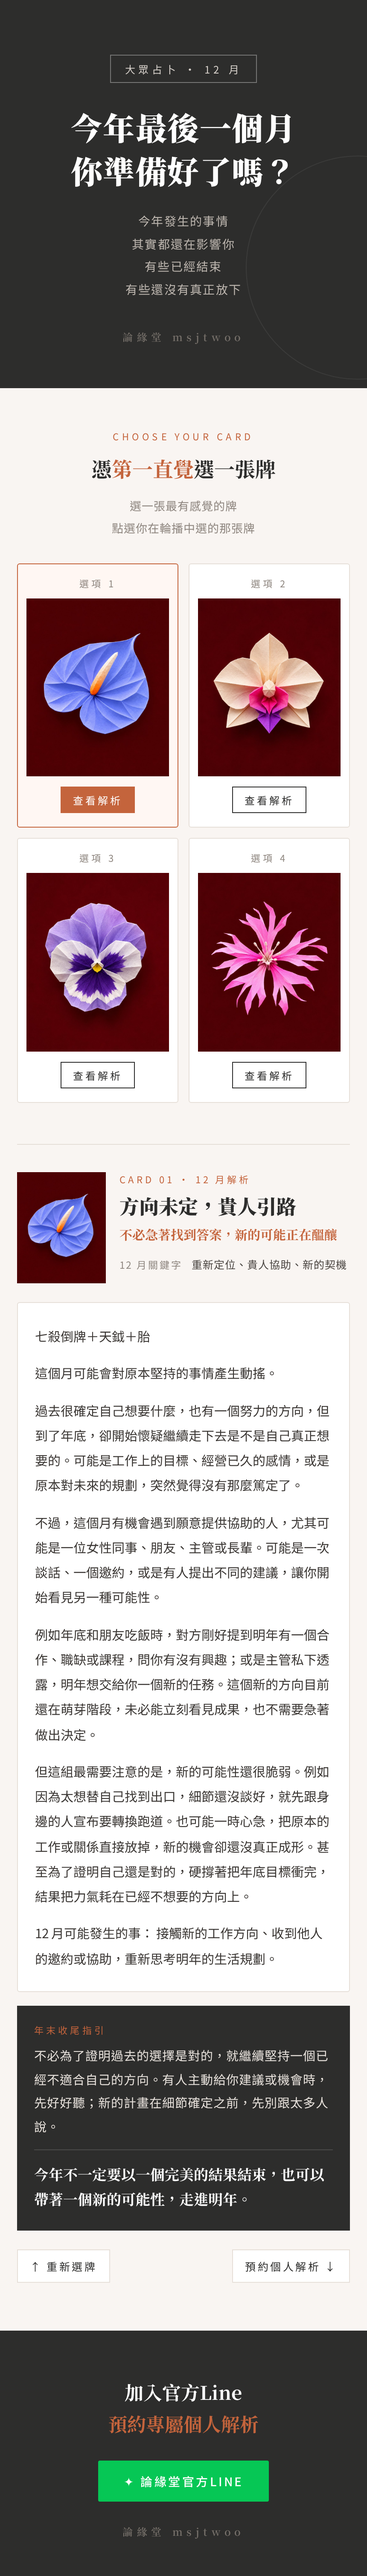
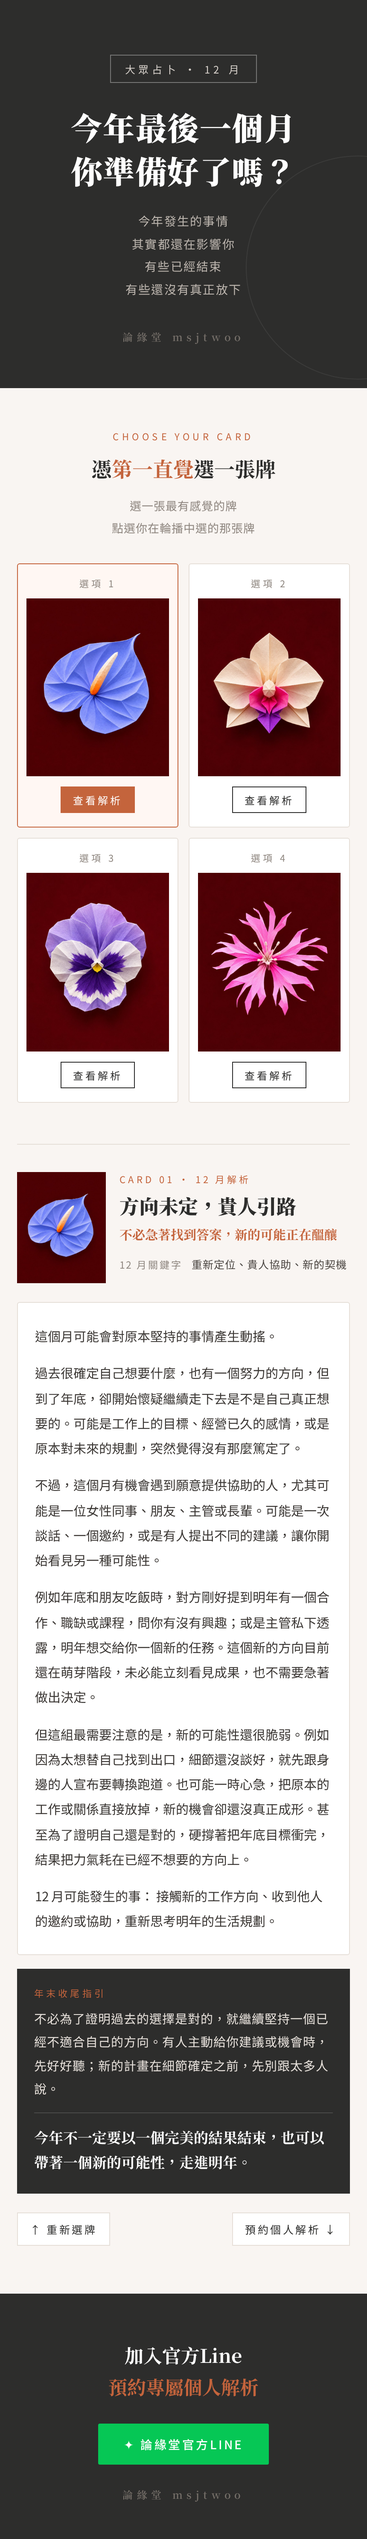
tishen 1127: remove 星曜 combination lines from all four cards
Build script now strips those lines before publish so later weeks will not show them.

diff --git a/tishen/1127/index.html b/tishen/1127/index.html
@@ -94,7 +94,7 @@ body{overflow-x:hidden}
   <div class="brand" id="brand2"></div>
 </footer>
 <div class="fab"><button aria-label="上" onclick="scrollTo({top:0})">↑</button><button aria-label="下" onclick="scrollTo({top:document.body.scrollHeight})">↓</button></div>
-<script id="data" type="application/json">{"slug":"1127","date":"2026-11-27","page_title":"今年最後一個月，你準備好了嗎？・解析頁","series":"12 月","type_label":"大眾占卜","headline":"今年最後一個月你準備好了嗎？","headline_break_after":"今年最後一個月","keyword":"","subtitle":"今年發生的事情\n其實都還在影響你\n有些已經結束\n有些還沒有真正放下","brand":"論緣堂 msjtwoo","question":"選一張最有感覺的牌","pick_hint":"點選你在輪播中選的那張牌","result_short_label":"12 月","line_url":"https://lin.ee/y6Pv4v8","cards":[{"title":"方向未定，貴人引路","subtitle":"不必急著找到答案，新的可能正在醞釀","meta_label":"12 月關鍵字","meta_value":"重新定位、貴人協助、新的契機","body":["七殺倒牌＋天鉞＋胎","這個月可能會對原本堅持的事情產生動搖。","過去很確定自己想要什麼，也有一個努力的方向，但到了年底，卻開始懷疑繼續走下去是不是自己真正想要的。可能是工作上的目標、經營已久的感情，或是原本對未來的規劃，突然覺得沒有那麼篤定了。","不過，這個月有機會遇到願意提供協助的人，尤其可能是一位女性同事、朋友、主管或長輩。可能是一次談話、一個邀約，或是有人提出不同的建議，讓你開始看見另一種可能性。","例如年底和朋友吃飯時，對方剛好提到明年有一個合作、職缺或課程，問你有沒有興趣；或是主管私下透露，明年想交給你一個新的任務。這個新的方向目前還在萌芽階段，未必能立刻看見成果，也不需要急著做出決定。","但這組最需要注意的是，新的可能性還很脆弱。例如因為太想替自己找到出口，細節還沒談好，就先跟身邊的人宣布要轉換跑道。也可能一時心急，把原本的工作或關係直接放掉，新的機會卻還沒真正成形。甚至為了證明自己還是對的，硬撐著把年底目標衝完，結果把力氣耗在已經不想要的方向上。","12 月可能發生的事： 接觸新的工作方向、收到他人的邀約或協助，重新思考明年的生活規劃。"],"summary_label":"年末收尾指引","summary":"不必為了證明過去的選擇是對的，就繼續堅持一個已經不適合自己的方向。有人主動給你建議或機會時，先好好聽；新的計畫在細節確定之前，先別跟太多人說。","summary_strong":"今年不一定要以一個完美的結果結束，也可以帶著一個新的可能性，走進明年。","img":"img/card1.jpg"},{"title":"放下執念，止住消耗","subtitle":"不再勉強掌控，反而有機會迎來好轉","meta_label":"12 月關鍵字","meta_value":"放下控制、重新衡量、止跌回穩","body":["武曲倒牌＋化權倒牌＋衰倒牌","這個月可能會發現，有些事情已經不是努力就能夠掌控的。","原本習慣用理性、效率或實際成果來衡量一件事，但最近可能更容易受到情緒、人情或個人感受的影響，做出與過去不同的選擇。工作上可能不再那麼堅持自己的做法；金錢上可能因為人情而有所妥協；感情上也可能逐漸放下想要掌握關係走向的念頭。","這種失去掌控的感覺，不見得是一件壞事。有些持續消耗你的事情，反而可能因為不再強求，而逐漸停止惡化。原本停滯的工作、低迷的心情，或是一段讓人疲憊的關係，都有機會慢慢回到比較平穩的狀態，但還不代表已經完全恢復。","但這組最需要注意的是，人情和情緒很容易在年底影響你的荷包。例如尾牙、聚餐、送禮一個接一個，每次花錢都覺得還好，月底一看帳單才發現超出很多。也可能朋友開口借錢或找你合作，你因為不好意思拒絕就答應了。甚至想在年底前把今年的損失補回來，就答應一筆沒有算清楚的投資。","12 月可能發生的事： 重新調整財務安排、放下部分責任、改變合作方式，或是原本不順利的事情出現緩和的跡象。"],"summary_label":"年末收尾指引","summary":"重新檢視哪些事情值得繼續投入，哪些只是因為不甘心，所以遲遲不願意放手。遇到要花錢、要答應別人的事，先把成本算過再回覆，替年底的花費設一個上限。","summary_strong":"今年最後一個月，不一定要再多得到什麼，能夠停止不必要的消耗，本身就是一種收穫。","img":"img/card2.jpg"},{"title":"慾望未減，新的篇章","subtitle":"機會正在增加，但別讓野心超過自己的能力","meta_label":"12 月關鍵字","meta_value":"慾望擴張、突破限制、新局展開","body":["貪狼倒牌＋天刑倒牌＋長生","這個月可能會突然對很多事情產生興趣，也開始對明年有更多的期待。","想賺更多錢、想認識更多人、想拓展事業，甚至想要改變自己的生活方式。原本限制自己的一些規則、顧慮或框架，也可能逐漸鬆動，讓你更願意嘗試過去不敢做的事情。","例如在尾牙、聖誕聚會或跨年活動上，認識了聊得很投緣的新朋友；或是有人主動找你談明年的合作，讓你對新的一年充滿想像。這個月確實有新的事物開始發展的可能。","但這組最需要注意的是，想要的東西可能比目前真正能夠負荷的還要多，而且這股想要的力量會一直長大。例如同時接下太多工作，每一件都想做好，最後把自己忙到很累；聚會時搶著買單、為了跨年行程和新衣服花了一大筆錢，只為了維持形象。也可能在感情或社交上出現新的吸引力，但因為界線不夠清楚，讓事情變得比原本想像中複雜。甚至因為想要更好的生活，做出超過自己能力範圍的承諾。","12 月可能發生的事： 新的合作邀約、社交活動增加、接觸新的感情對象，或是開始籌備明年的計畫。"],"summary_label":"年末收尾指引","summary":"可以有野心，也可以對未來充滿期待，但不要為了讓自己看起來過得更好，而勉強支撐一個超過能力範圍的生活。花錢、答應邀約之前先想一想，這是為了自己，還是為了面子。","summary_strong":"真正值得帶進明年的，是能夠長久發展的機會；一時滿足慾望的選擇，就留在今年。","img":"img/card3.jpg"},{"title":"根基已穩，時機未至","subtitle":"手上的資源比想像中多，不必急著證明成果","meta_label":"12 月關鍵字","meta_value":"資源整合、穩定累積、延後發展","body":["武曲天府＋右弼＋臨官倒牌","這個月適合好好盤點自己這一年累積下來的東西。","無論是金錢、工作經驗、專業能力，還是身邊值得信任的人，其實已經具備了一定的基礎。例如年終結算時，發現今年其實存下了一筆錢；客戶的尾款、年終獎金順利入帳。也有機會得到身邊人的協助，可能是同事、朋友或另一半主動幫你分擔年底的工作，或是透過自己的能力，把原本分散的資源重新整合起來。","但這組最需要注意的是，這個月的發展速度可能沒有預期中快。例如以為會談成的加薪、升職，或原本以為年底以前可以完成的合作，最後延到明年再說。也可能年終獎金或今年的收入，比你想像中少一些。甚至已經開始為新的位置或新的計畫做準備，到了最後才發現時機還沒成熟，只能先維持現狀。","這不一定是能力不足，也不代表手上的資源沒有價值，只是目前還沒有發展到預期的規模。與其急著擴張，不如趁這個月把帳目、工作流程、合作關係，以及明年的資源配置整理好。","12 月可能發生的事： 整理財務、獲得工作上的協助、重新分配資源，或是原定年底完成的計畫有所延後。"],"summary_label":"年末收尾指引","summary":"不要因為今年還沒有達到理想中的成績，就否定自己這一整年的累積。把收入、存款和待收款項整理清楚，該追的款項主動去追，幫過你的人也要好好答謝。","summary_strong":"有些成果不需要趕在今年兌現。把基礎打好，反而更有利於明年的發展。","img":"img/card4.jpg"}]}</script>
+<script id="data" type="application/json">{"slug":"1127","date":"2026-11-27","page_title":"今年最後一個月，你準備好了嗎？・解析頁","series":"12 月","type_label":"大眾占卜","headline":"今年最後一個月你準備好了嗎？","headline_break_after":"今年最後一個月","keyword":"","subtitle":"今年發生的事情\n其實都還在影響你\n有些已經結束\n有些還沒有真正放下","brand":"論緣堂 msjtwoo","question":"選一張最有感覺的牌","pick_hint":"點選你在輪播中選的那張牌","result_short_label":"12 月","line_url":"https://lin.ee/y6Pv4v8","cards":[{"title":"方向未定，貴人引路","subtitle":"不必急著找到答案，新的可能正在醞釀","meta_label":"12 月關鍵字","meta_value":"重新定位、貴人協助、新的契機","body":["這個月可能會對原本堅持的事情產生動搖。","過去很確定自己想要什麼，也有一個努力的方向，但到了年底，卻開始懷疑繼續走下去是不是自己真正想要的。可能是工作上的目標、經營已久的感情，或是原本對未來的規劃，突然覺得沒有那麼篤定了。","不過，這個月有機會遇到願意提供協助的人，尤其可能是一位女性同事、朋友、主管或長輩。可能是一次談話、一個邀約，或是有人提出不同的建議，讓你開始看見另一種可能性。","例如年底和朋友吃飯時，對方剛好提到明年有一個合作、職缺或課程，問你有沒有興趣；或是主管私下透露，明年想交給你一個新的任務。這個新的方向目前還在萌芽階段，未必能立刻看見成果，也不需要急著做出決定。","但這組最需要注意的是，新的可能性還很脆弱。例如因為太想替自己找到出口，細節還沒談好，就先跟身邊的人宣布要轉換跑道。也可能一時心急，把原本的工作或關係直接放掉，新的機會卻還沒真正成形。甚至為了證明自己還是對的，硬撐著把年底目標衝完，結果把力氣耗在已經不想要的方向上。","12 月可能發生的事： 接觸新的工作方向、收到他人的邀約或協助，重新思考明年的生活規劃。"],"summary_label":"年末收尾指引","summary":"不必為了證明過去的選擇是對的，就繼續堅持一個已經不適合自己的方向。有人主動給你建議或機會時，先好好聽；新的計畫在細節確定之前，先別跟太多人說。","summary_strong":"今年不一定要以一個完美的結果結束，也可以帶著一個新的可能性，走進明年。","img":"img/card1.jpg"},{"title":"放下執念，止住消耗","subtitle":"不再勉強掌控，反而有機會迎來好轉","meta_label":"12 月關鍵字","meta_value":"放下控制、重新衡量、止跌回穩","body":["這個月可能會發現，有些事情已經不是努力就能夠掌控的。","原本習慣用理性、效率或實際成果來衡量一件事，但最近可能更容易受到情緒、人情或個人感受的影響，做出與過去不同的選擇。工作上可能不再那麼堅持自己的做法；金錢上可能因為人情而有所妥協；感情上也可能逐漸放下想要掌握關係走向的念頭。","這種失去掌控的感覺，不見得是一件壞事。有些持續消耗你的事情，反而可能因為不再強求，而逐漸停止惡化。原本停滯的工作、低迷的心情，或是一段讓人疲憊的關係，都有機會慢慢回到比較平穩的狀態，但還不代表已經完全恢復。","但這組最需要注意的是，人情和情緒很容易在年底影響你的荷包。例如尾牙、聚餐、送禮一個接一個，每次花錢都覺得還好，月底一看帳單才發現超出很多。也可能朋友開口借錢或找你合作，你因為不好意思拒絕就答應了。甚至想在年底前把今年的損失補回來，就答應一筆沒有算清楚的投資。","12 月可能發生的事： 重新調整財務安排、放下部分責任、改變合作方式，或是原本不順利的事情出現緩和的跡象。"],"summary_label":"年末收尾指引","summary":"重新檢視哪些事情值得繼續投入，哪些只是因為不甘心，所以遲遲不願意放手。遇到要花錢、要答應別人的事，先把成本算過再回覆，替年底的花費設一個上限。","summary_strong":"今年最後一個月，不一定要再多得到什麼，能夠停止不必要的消耗，本身就是一種收穫。","img":"img/card2.jpg"},{"title":"慾望未減，新的篇章","subtitle":"機會正在增加，但別讓野心超過自己的能力","meta_label":"12 月關鍵字","meta_value":"慾望擴張、突破限制、新局展開","body":["這個月可能會突然對很多事情產生興趣，也開始對明年有更多的期待。","想賺更多錢、想認識更多人、想拓展事業，甚至想要改變自己的生活方式。原本限制自己的一些規則、顧慮或框架，也可能逐漸鬆動，讓你更願意嘗試過去不敢做的事情。","例如在尾牙、聖誕聚會或跨年活動上，認識了聊得很投緣的新朋友；或是有人主動找你談明年的合作，讓你對新的一年充滿想像。這個月確實有新的事物開始發展的可能。","但這組最需要注意的是，想要的東西可能比目前真正能夠負荷的還要多，而且這股想要的力量會一直長大。例如同時接下太多工作，每一件都想做好，最後把自己忙到很累；聚會時搶著買單、為了跨年行程和新衣服花了一大筆錢，只為了維持形象。也可能在感情或社交上出現新的吸引力，但因為界線不夠清楚，讓事情變得比原本想像中複雜。甚至因為想要更好的生活，做出超過自己能力範圍的承諾。","12 月可能發生的事： 新的合作邀約、社交活動增加、接觸新的感情對象，或是開始籌備明年的計畫。"],"summary_label":"年末收尾指引","summary":"可以有野心，也可以對未來充滿期待，但不要為了讓自己看起來過得更好，而勉強支撐一個超過能力範圍的生活。花錢、答應邀約之前先想一想，這是為了自己，還是為了面子。","summary_strong":"真正值得帶進明年的，是能夠長久發展的機會；一時滿足慾望的選擇，就留在今年。","img":"img/card3.jpg"},{"title":"根基已穩，時機未至","subtitle":"手上的資源比想像中多，不必急著證明成果","meta_label":"12 月關鍵字","meta_value":"資源整合、穩定累積、延後發展","body":["這個月適合好好盤點自己這一年累積下來的東西。","無論是金錢、工作經驗、專業能力，還是身邊值得信任的人，其實已經具備了一定的基礎。例如年終結算時，發現今年其實存下了一筆錢；客戶的尾款、年終獎金順利入帳。也有機會得到身邊人的協助，可能是同事、朋友或另一半主動幫你分擔年底的工作，或是透過自己的能力，把原本分散的資源重新整合起來。","但這組最需要注意的是，這個月的發展速度可能沒有預期中快。例如以為會談成的加薪、升職，或原本以為年底以前可以完成的合作，最後延到明年再說。也可能年終獎金或今年的收入，比你想像中少一些。甚至已經開始為新的位置或新的計畫做準備，到了最後才發現時機還沒成熟，只能先維持現狀。","這不一定是能力不足，也不代表手上的資源沒有價值，只是目前還沒有發展到預期的規模。與其急著擴張，不如趁這個月把帳目、工作流程、合作關係，以及明年的資源配置整理好。","12 月可能發生的事： 整理財務、獲得工作上的協助、重新分配資源，或是原定年底完成的計畫有所延後。"],"summary_label":"年末收尾指引","summary":"不要因為今年還沒有達到理想中的成績，就否定自己這一整年的累積。把收入、存款和待收款項整理清楚，該追的款項主動去追，幫過你的人也要好好答謝。","summary_strong":"有些成果不需要趕在今年兌現。把基礎打好，反而更有利於明年的發展。","img":"img/card4.jpg"}]}</script>
 <script>
 const D=JSON.parse(document.getElementById('data').textContent);
 const esc=s=>String(s).replace(/&/g,'&amp;').replace(/</g,'&lt;').replace(/>/g,'&gt;');
